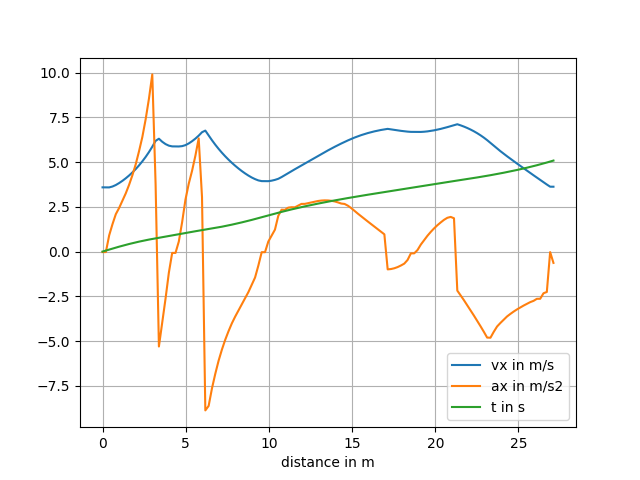
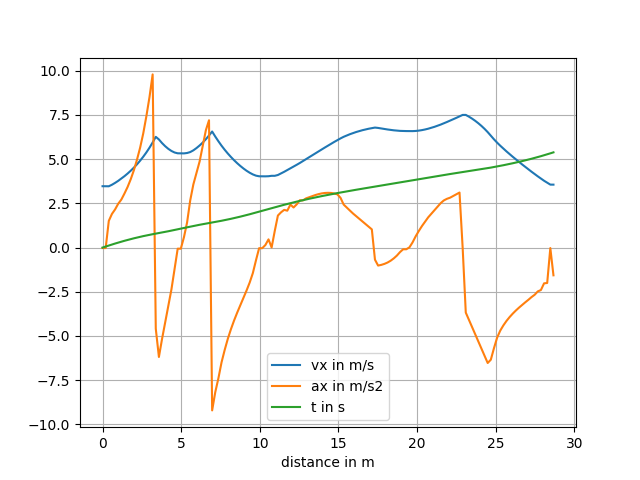
wip 4/21

diff --git a/bringup/launch/real_bringup_launch.py b/bringup/launch/real_bringup_launch.py
@@ -63,9 +63,9 @@ def generate_launch_description():
         parameters=[
             {"sim or real": real},                          # do not change
             {"is ascending": True},                         # direction of waypoints (True for ccw)
-            {"csv name": "border_half_meter"},              # csv for map used
+            {"csv name": "short_black_tube"},              # csv for map used
             {"csv path": derek_csv_path},                   # path of csv for map in directory
-            {"reference speed gain": 0.9},                  # weight of reference speed
+            {"reference speed gain": 0.7},                  # weight of reference speed
             {"lookahead distance": 2.5},                    # lookahead of pure pursuit
             {"steering gain": 0.8},                         # steering gain of pure pursuit
             {"test speed": 1.0},                            # use for testing instead of reference speed
